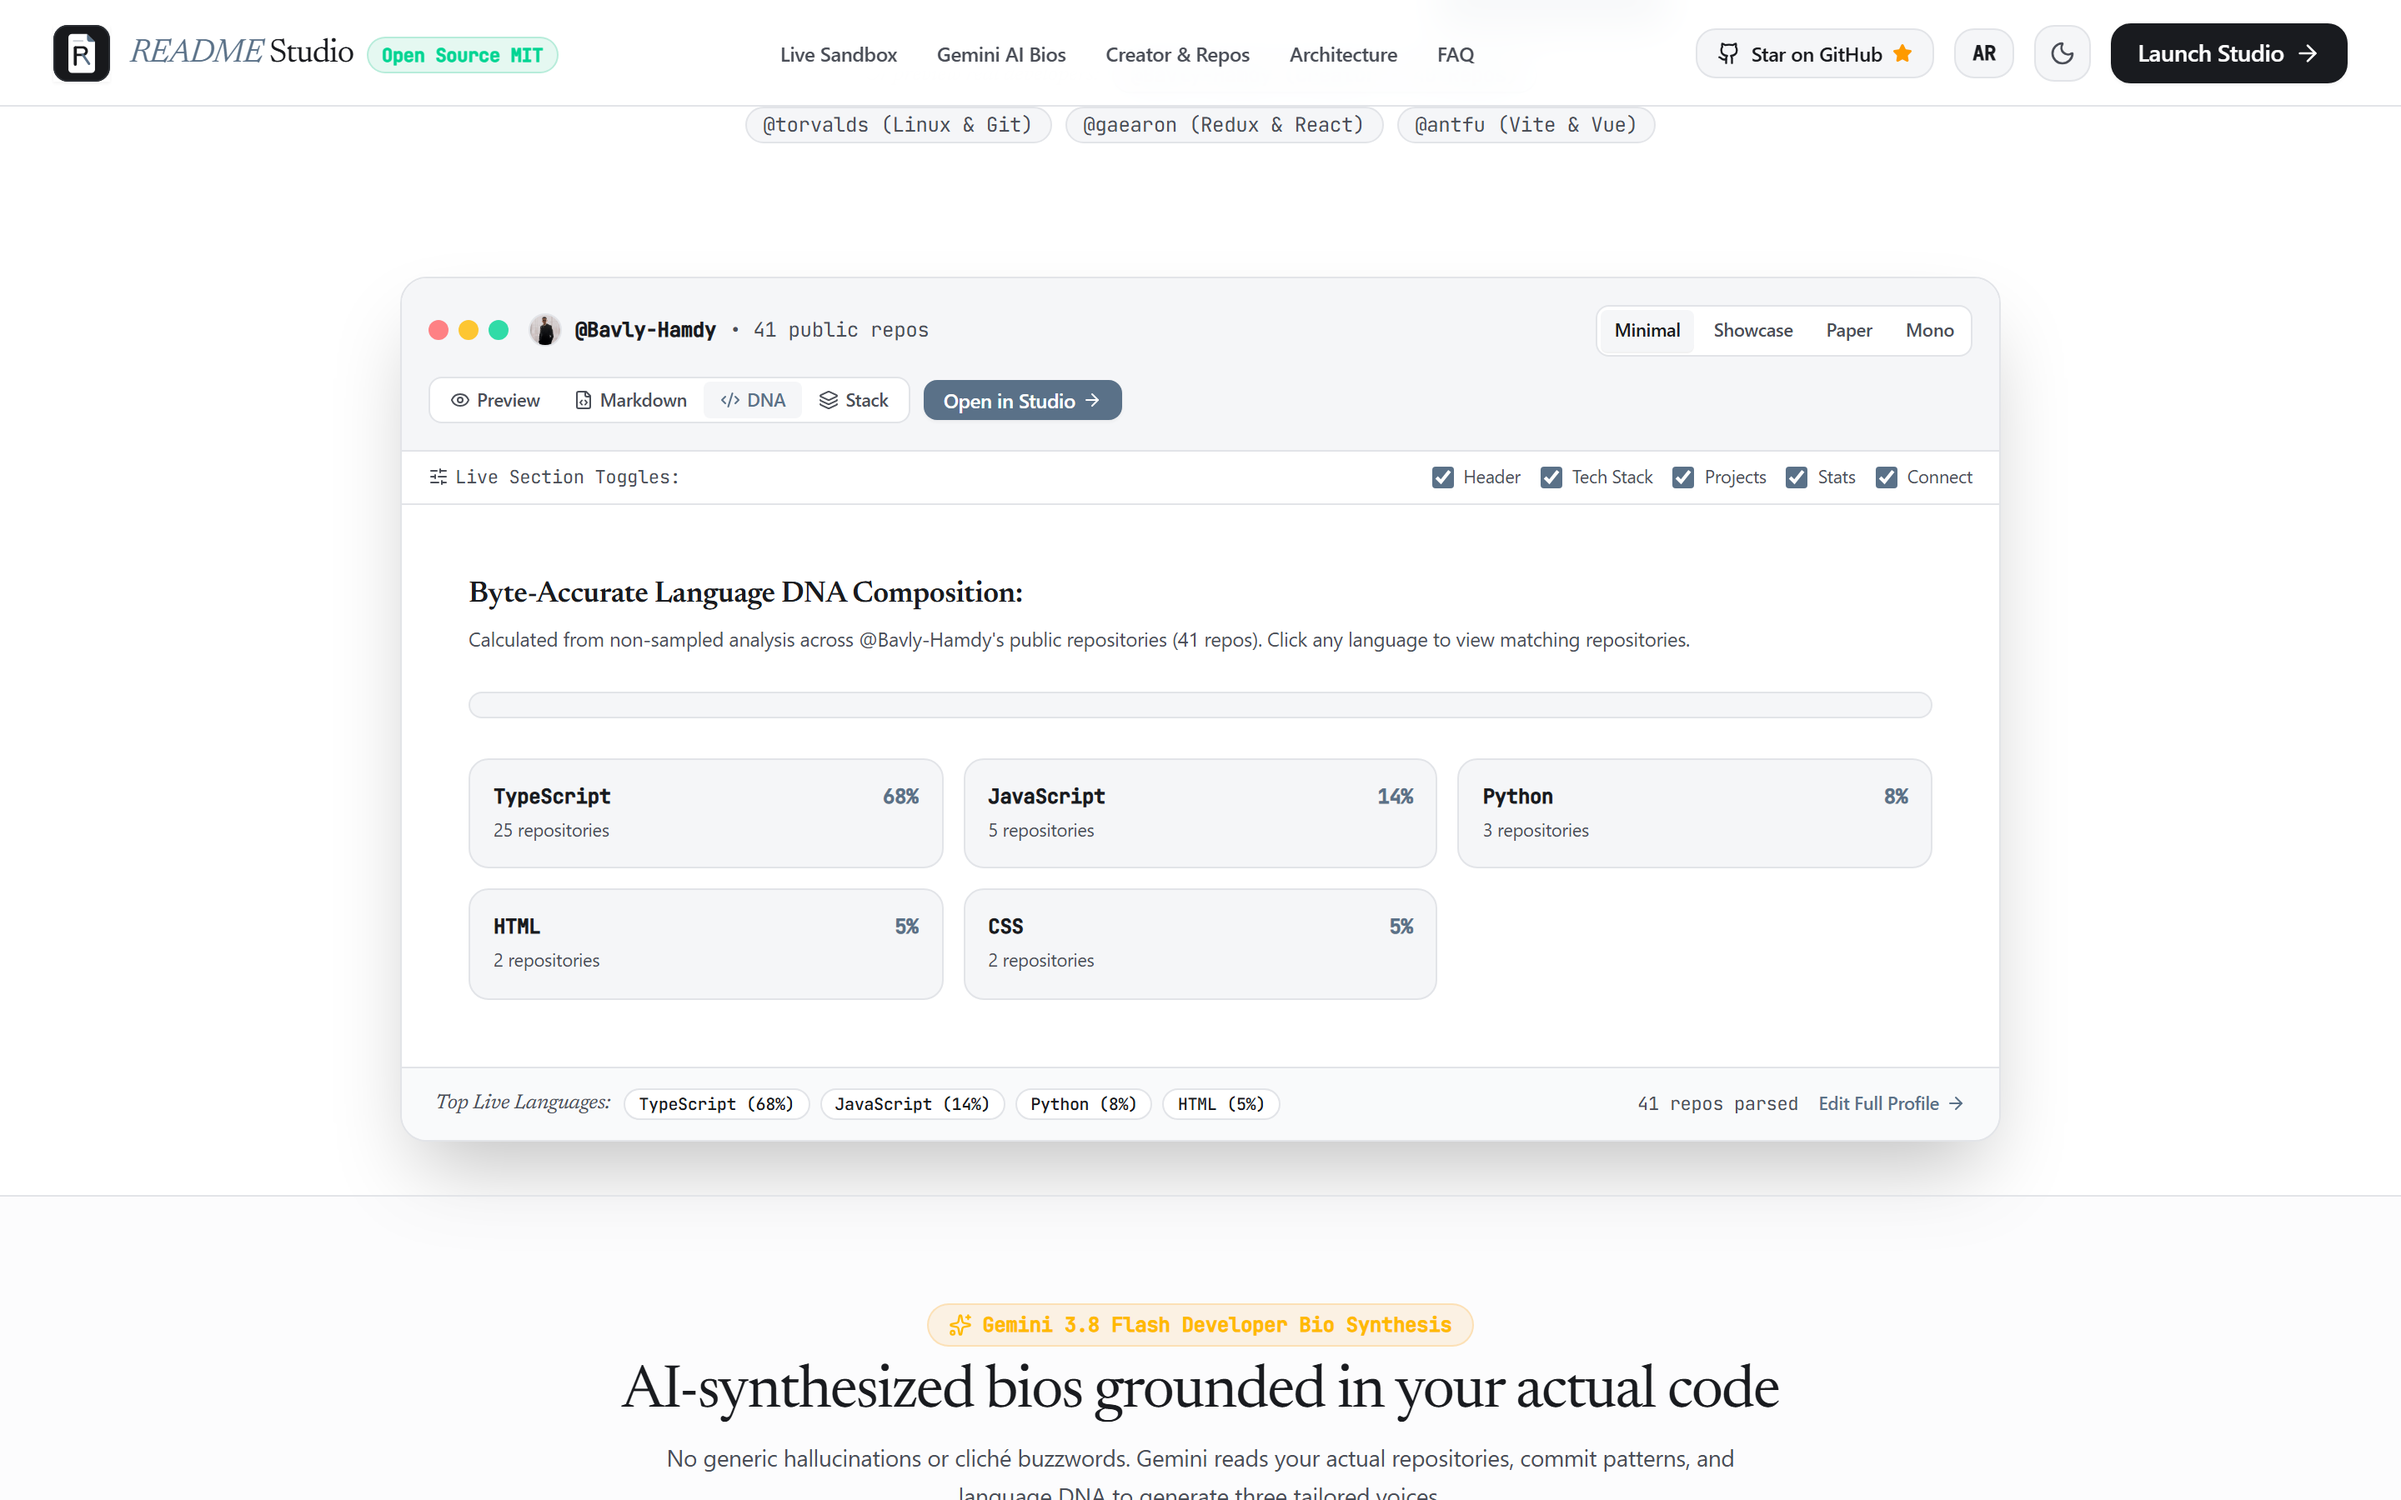
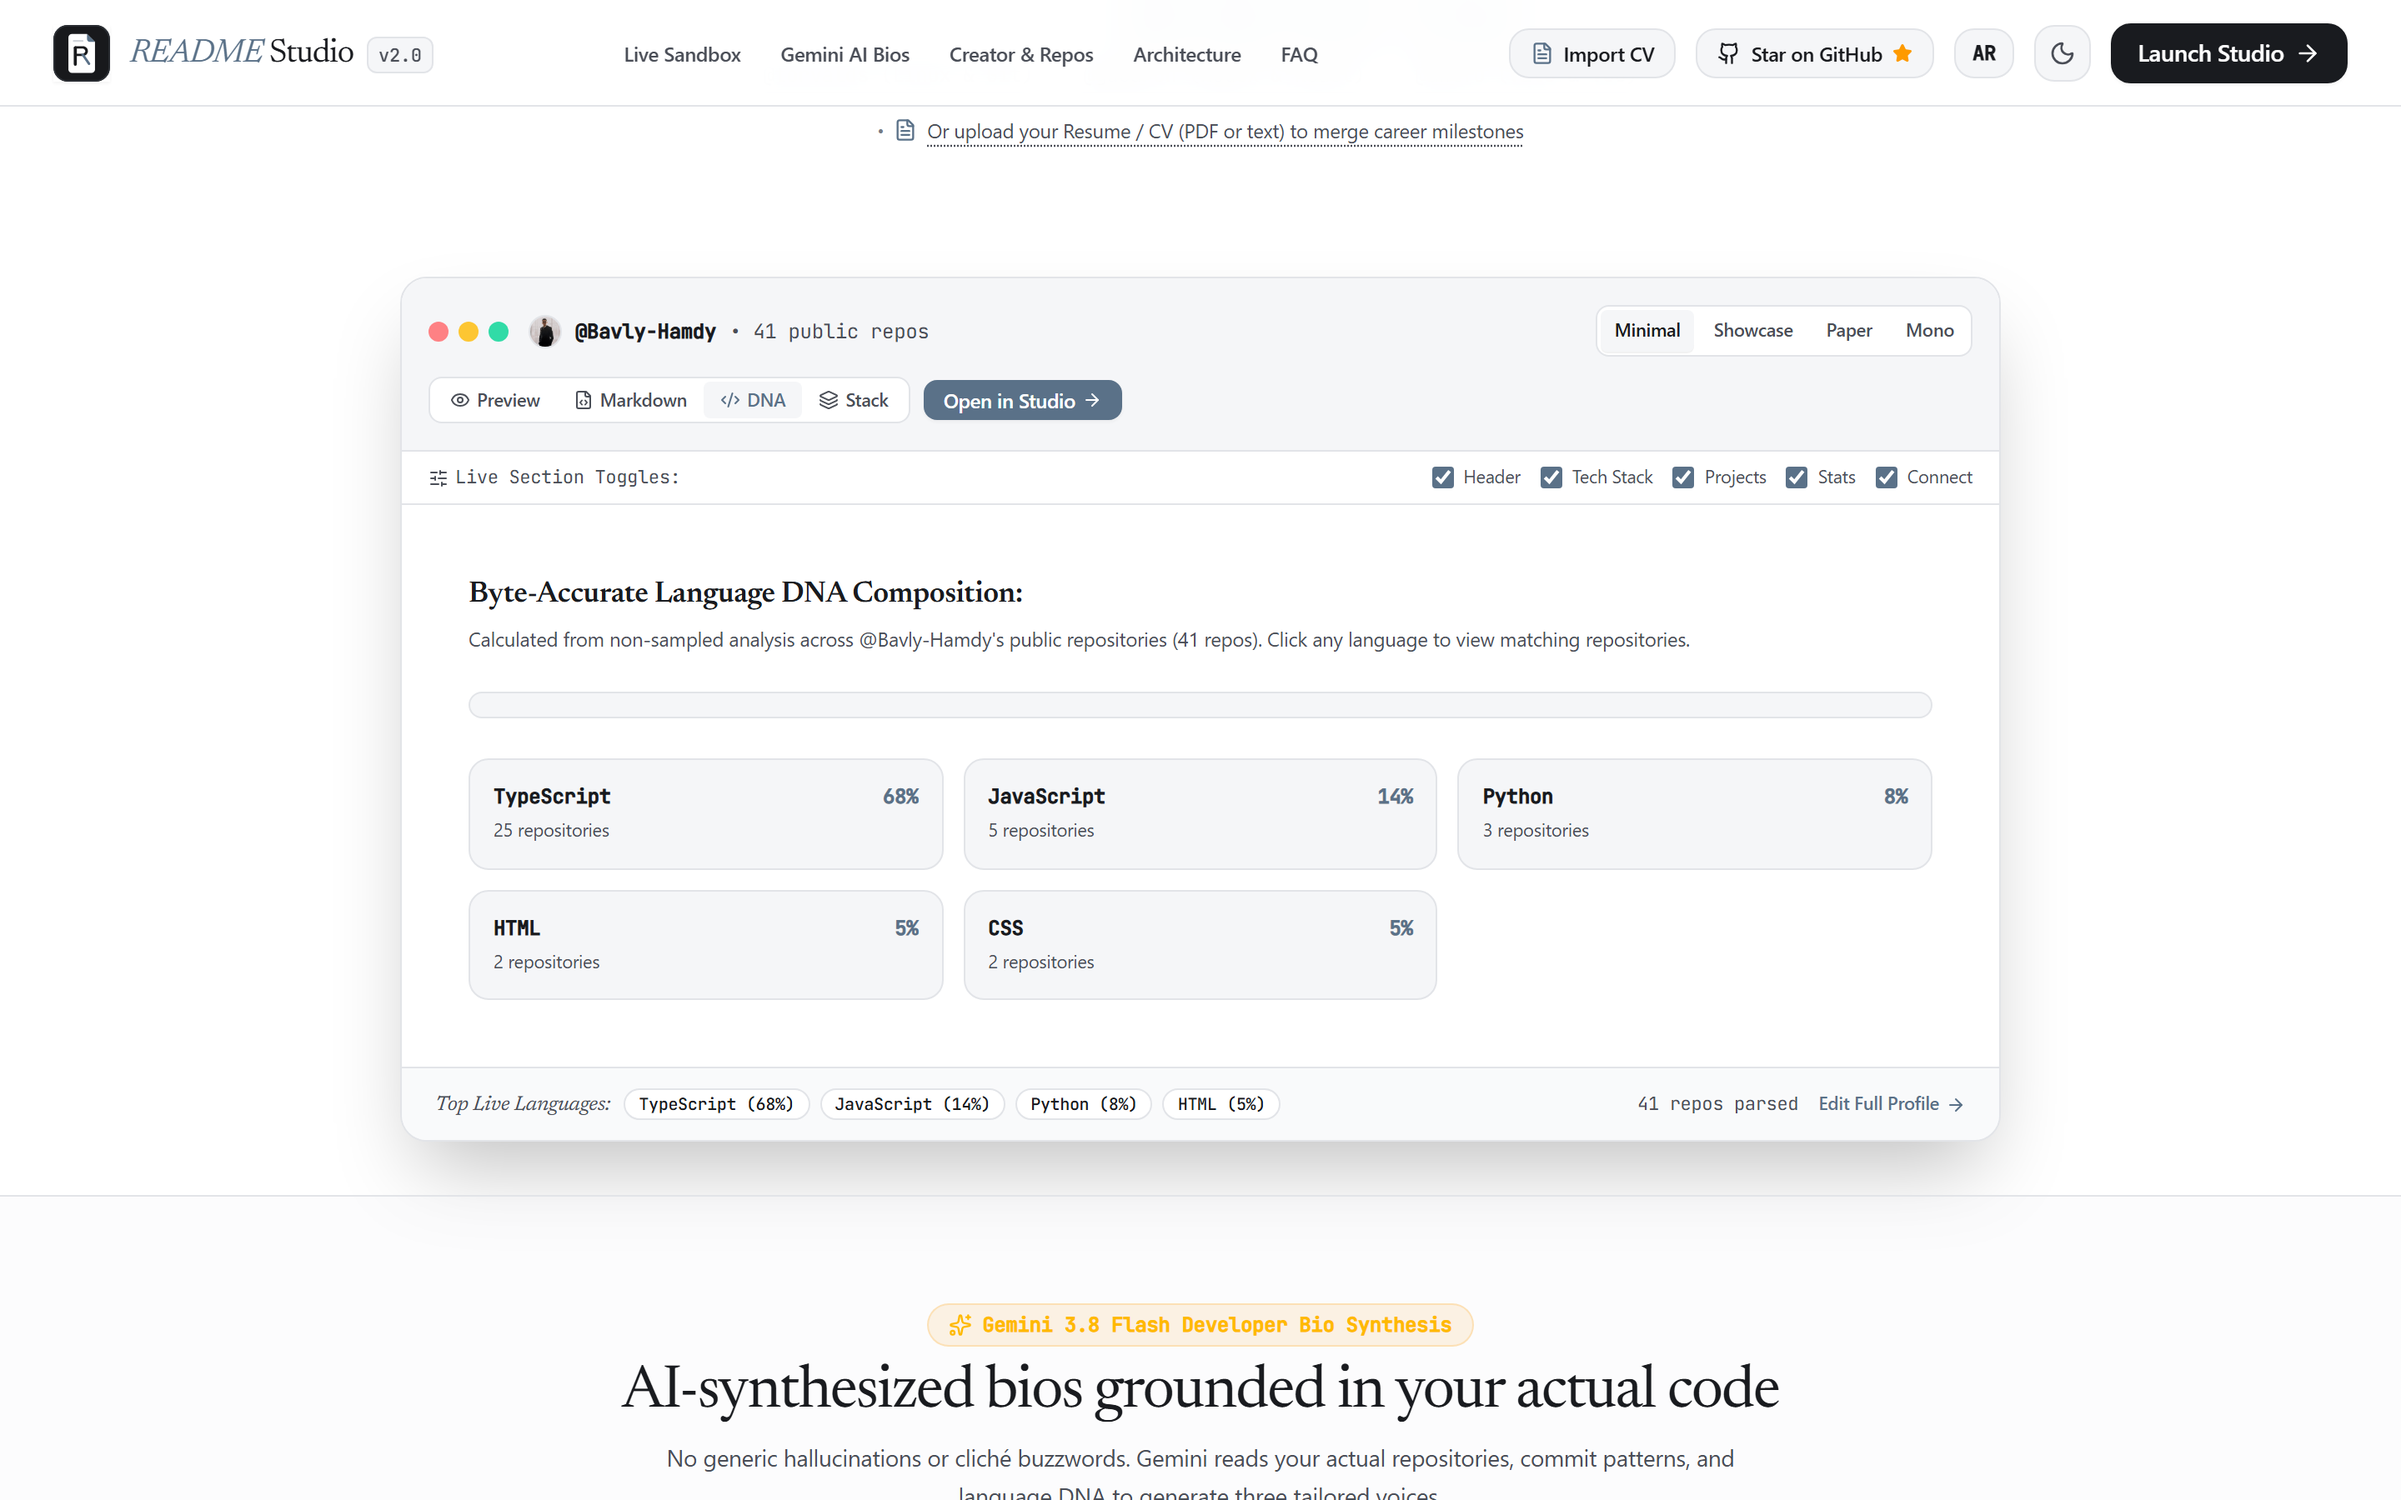
docs(screenshots): regenerate high-res 2x Retina gallery and add Resume and v2.0 modals

diff --git a/capture_screenshots.py b/capture_screenshots.py
@@ -71,11 +71,31 @@ def capture_readme_studio():
             pub_btn.click()
             page.wait_for_timeout(800)
             page.screenshot(path=os.path.join(output_dir, '07_publish_modal.png'))
-            page.keyboard.press('Escape')
-            page.wait_for_timeout(400)
+            page.reload(wait_until='networkidle')
+            page.wait_for_timeout(600)
 
-        # 8. Deep Analytics Dashboard View
-        print('8. Capturing Analytics Dashboard...')
+        # 8. Resume Ingestion Modal
+        print('8. Capturing Multimodal Resume / CV Modal...')
+        resume_btn = page.locator('button:has-text("Import CV"), button:has-text("استيراد السيرة الذاتية"), button[title*="Resume"]').first
+        if resume_btn.count() > 0:
+            resume_btn.click()
+            page.wait_for_timeout(800)
+            page.screenshot(path=os.path.join(output_dir, '09_resume_modal.png'))
+            page.reload(wait_until='networkidle')
+            page.wait_for_timeout(600)
+
+        # 9. What's New v2.0 Architectural Modal
+        print('9. Capturing What\'s New v2.0 Modal...')
+        whats_new_btn = page.locator('button:has-text("v2.0")').first
+        if whats_new_btn.count() > 0:
+            whats_new_btn.click()
+            page.wait_for_timeout(800)
+            page.screenshot(path=os.path.join(output_dir, '10_whats_new_modal.png'))
+            page.reload(wait_until='networkidle')
+            page.wait_for_timeout(600)
+
+        # 10. Deep Analytics Dashboard View
+        print('10. Capturing Analytics Dashboard...')
         page.evaluate("""() => {
             localStorage.setItem('readme_studio_view', 'analytics');
         }""")
@@ -84,7 +104,7 @@ def capture_readme_studio():
         page.screenshot(path=os.path.join(output_dir, '08_analytics_dashboard.png'))
 
         browser.close()
-        print('All 8 high-res screenshots captured successfully in public/screenshots/ !')
+        print('All 10 high-res screenshots captured successfully in public/screenshots/ !')
 
 if __name__ == '__main__':
     capture_readme_studio()

diff --git a/README.md b/README.md
@@ -373,6 +373,20 @@ All screenshots are captured at **2x Retina resolution** from the live productio
 
 ---
 
+### 9. Multimodal Resume & CV Ingestion Modal
+*Tactile drag-and-drop document parser with 10MB safety bounds, real-time OCR progress simulation, and Bento Grid milestone review.*
+
+![09 Resume Modal](public/screenshots/09_resume_modal.png)
+
+---
+
+### 10. Version 2.0 Architectural Hub & Release Changelog
+*Interactive release modal showcasing multimodal resume synergy, anti-boilerplate tech qualification, and native career timelines.*
+
+![10 What's New Modal](public/screenshots/10_whats_new_modal.png)
+
+---
+
 ## ✨ Core Features & Capabilities
 
 * **📄 Multimodal Resume & CV Synergy:** Upload your CV in PDF format or paste plain text. Gemini 3.8 Flash parses your employment history, academic background, and certifications, fusing them with GitHub repository metadata.
@@ -789,7 +803,9 @@ README-Studio/
 │       ├── 05_creator_spotlight.png
 │       ├── 06_studio_builder.png
 │       ├── 07_publish_modal.png
-│       └── 08_analytics_dashboard.png
+│       ├── 08_analytics_dashboard.png
+│       ├── 09_resume_modal.png
+│       └── 10_whats_new_modal.png
 ├── src/
 │   ├── components/               # View orchestrators & UI primitives
 │   │   ├── AnalyticsDashboard.tsx# Professional developer telemetry & scorecard
